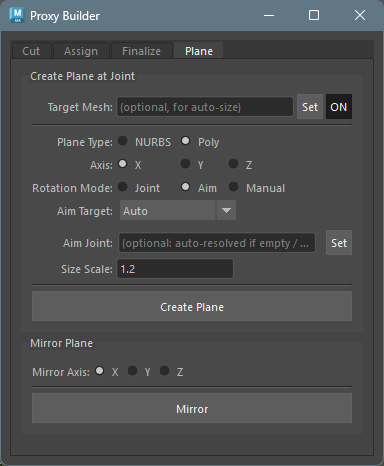
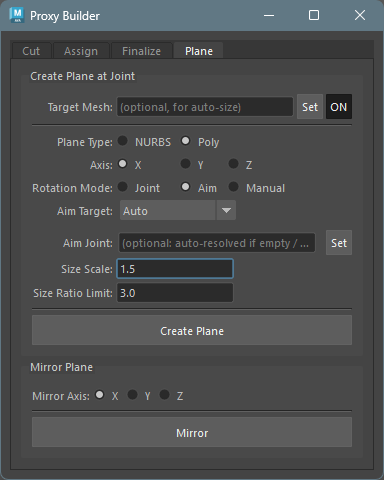
docs: Document plane Size Ratio Limit and Size Scale fallback
Describe the new Size Ratio Limit outlier-rejection knob and clarify
that Size Scale is used as the plane edge length when Target Mesh is
off. Also refresh the Plane tab screenshot to match the updated UI.

diff --git a/docs/src/ja/rig/proxy_builder.md b/docs/src/ja/rig/proxy_builder.md
@@ -158,7 +158,20 @@ faketools.tools.rig.proxy_builder.ui.show_ui()
 
 #### Size Scale
 
-Target Mesh を設定した場合、レイキャストによるサイズ自動計算が行われます。Size Scale はその結果に対する倍率です。
+プレーンのサイズを決める値です。Target Mesh の設定状態によって意味が変わります。
+
+- **Target Mesh が ON** のとき: レイキャストによるサイズ自動計算の結果に対する倍率として機能します。
+- **Target Mesh が OFF または未設定** のとき: プレーンの辺長（ワールド単位）としてそのまま使用されます。例えば `10.0` なら 10×10 のプレーンが作成されます。
+
+#### Size Ratio Limit
+
+Target Mesh が ON の場合のみ有効です。\
+レイキャストによるサイズ自動計算では、ジョイント位置から各軸の正負方向にレイを飛ばしてメッシュとの交点距離を計測します。このとき、片方のレイがメッシュ内部を貫通して反対側まで抜けてしまうと、プレーンが異常に大きくなります。
+
+Size Ratio Limit は、正負方向のレイ距離の比率（長い側 ÷ 短い側）がこの値を超えた場合、長い側を異常値とみなして無視し、短い側の距離を対称的に使用します。デフォルト値は `3.0` です。
+
+- 値を小さくするほど厳しく判定（小さめのプレーンに収まりやすい）
+- 値を大きくするほど緩く判定（従来挙動に近い）
 
 ### Mirror Plane
 

diff --git a/docs/src/en/rig/proxy_builder.md b/docs/src/en/rig/proxy_builder.md
@@ -157,7 +157,20 @@ Select how the plane's rotation (normal direction) is determined.
 
 #### Size Scale
 
-When Target Mesh is set, automatic size calculation via raycasting is performed. Size Scale is a multiplier applied to the result.
+Controls the plane size. Its meaning depends on the Target Mesh state.
+
+- **When Target Mesh is ON**: Acts as a multiplier applied to the raycast-based auto-sized result.
+- **When Target Mesh is OFF or unset**: Used directly as the plane edge length (in world units). For example, `10.0` creates a 10×10 plane.
+
+#### Size Ratio Limit
+
+Only effective when Target Mesh is ON.\
+During raycast auto-sizing, rays are fired from the joint position along the positive and negative directions of each axis to measure the distance to the mesh. If one ray penetrates the mesh interior and exits on the far side, the resulting plane becomes excessively large.
+
+Size Ratio Limit rejects the longer distance as an outlier when the ratio of the longer to the shorter distance exceeds this value; the shorter distance is then used symmetrically instead. The default value is `3.0`.
+
+- Smaller values: stricter rejection (favors smaller, safer planes)
+- Larger values: looser rejection (closer to the original behavior)
 
 ### Mirror Plane
 
